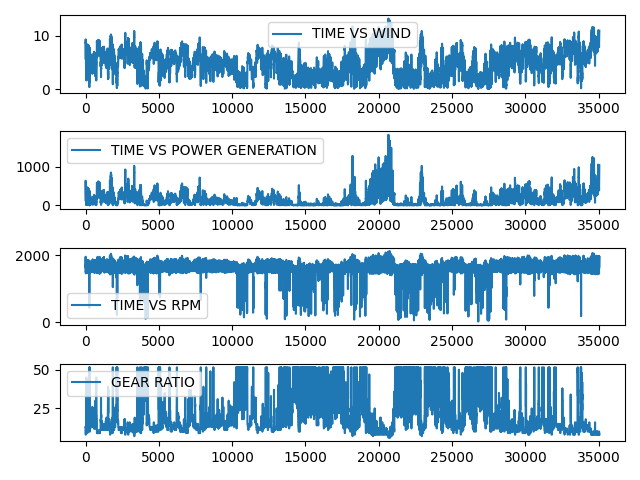
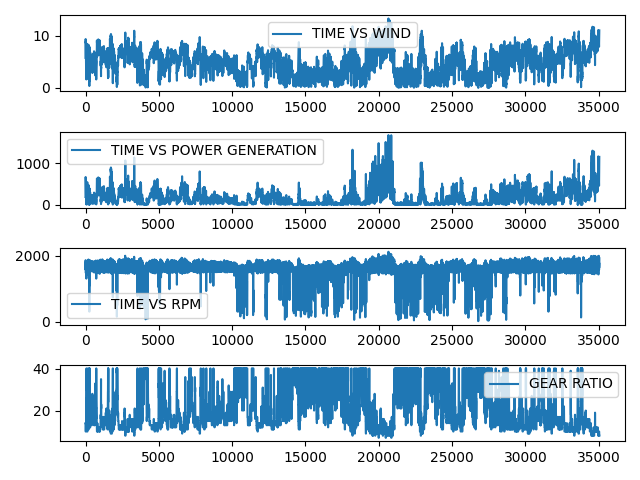
final working build

diff --git a/vawtsystem.py b/vawtsystem.py
@@ -1,36 +1,54 @@
 import matplotlib.pyplot as plt
 import numpy as np
 import csv
+import math
 
 BETZ = 0.35
 GENEFF = 0.85
 CVTEFF = 0.85
-IDEALTSR = 2 # small widnd turbines
-# tsr = w*R / V
+TSR = 2 # small widnd turbines
+RATIO = 1.75 # see sources
 
-# simulate wind fluctuations
-# this assumes a minute 
-def createWind(wind, n):
-  windList = []
-  windList.append(
-    wind +
-    2 * np.pi * (2 * np.pi * 0 / 120) +
-    1 * np.pi * (2 * np.pi * 0 / 30) +
-    0.5 * np.random.randn(n)
-  )
+def w2area(wind, power, DENSITY):
+  print('AT WIND SPEED: ' + str(wind) + 'M/S')
+  area = (2*power / (wind**3 * BETZ * DENSITY))
+  diameter = math.sqrt(area / (RATIO))
+  height = diameter * RATIO
 
-  return windList[0]
+  # given power
+  # mechanical power btw
+  power = 0.5 * DENSITY * BETZ * wind**3 * (diameter * height)
 
-# we use a tsr based approach
-# what we do is calculate tsr, make ideal gear ratio to match from tsr 
-# then "tilt" the shift to know how much to shift for that
-# also place a treshhold so we dont shift all the time
-# calculate current gear ratio, return ideal and power output from electricity
+
+  print('AREA: ' + str(area))
+  print('DIAMETER: ' + str(diameter))
+  print('HEIGHT: ' + str(height))
+  return diameter, height
+
+def gearratio(WINDSPEED, LOWEST, HIGHEST, DIAM, GENERATORRATEDSPEED):
+  print(f"DIAGNOSTICS AT AVERAGE WINDSPEED {WINDSPEED}M/S")
+  TRADIUS = DIAM / 2
+
+  print('------------------------------------------')
+  print(f"LOWEST WIND SPEED: {LOWEST} \nHIGHEST: {HIGHEST}")
+
+  # conv to rads 
+  RPMRAD = (GENERATORRATEDSPEED * 2 * math.pi) / 60
+  LOWESTROTATIONALSPEED = (TSR * LOWEST) / TRADIUS
+  HIGHESTROTATIONALSPEED = (TSR * HIGHEST) / TRADIUS
+  RATEDROTATIONALSPEED = (TSR * WINDSPEED) / TRADIUS
+  print(RATEDROTATIONALSPEED)
+
+  # formula for gear ratio = GENSPEE / ROTATIONAL SPEED OF TURBINE
+  HIGHESTGR = RPMRAD / HIGHESTROTATIONALSPEED
+  LOWESTGR = RPMRAD / LOWESTROTATIONALSPEED
+  AVERAGEGR = RPMRAD / RATEDROTATIONALSPEED
+  print('------------------------------------------')
+  print(f"UPPER BOUND: {HIGHESTGR} \nLOWEST: {LOWESTGR} \nAVERAGE: {AVERAGEGR}")
+  
+  return HIGHESTGR, LOWESTGR, AVERAGEGR
+  
 def shifterDriver(power, rpm, speed, dimensions, config, wv, gr):
-  # input radius of torroidal cvt discs
-  # rinput = dimensions.input
-  # routput = dimensions.output
-  # torus shifter, it adjusts angle to change radius
   theta = 0
 
   # upper and lower gear ratios, given from vawtgearratio
@@ -85,11 +103,8 @@ def shifterDriver(power, rpm, speed, dimensions, config, wv, gr):
 
     # print(f'SHIFTED TO {gearRatio}, expected rpm {gearRatio * rpm}, ideal {idealgr} expected ideal {idealgr * rpm}')
 
-  # given this, i want to recalculate power at that moment
-  # torque of turbine at that moment
   torque = power / speed
 
-  # generator speed
   genspeed = speed / gearRatio
   gentorque = torque * gearRatio * GENEFF
 
@@ -110,7 +125,6 @@ def simulate(windList, dimensions, config):
   # - rpm at that moment
   # - torque 
 
-  angularaccel = 0
   angularvelo = 0
   netpowarr = []
   epowerarr = []
@@ -118,7 +132,6 @@ def simulate(windList, dimensions, config):
   ratioarr = []
   rpmarr = []
   kwharr = []
-  srgpowarr = []
 
   kwh = 0
   opower = 0 
@@ -127,17 +140,13 @@ def simulate(windList, dimensions, config):
     # power is power from wind - power from inertia
     if (windList[i] == 0):
       windList[i] = 0.1
-    # inertia is defined by moment of inertia * angular accel * angular velocity
     omega = angularvelo # past angular velo
-    rpm = (IDEALTSR * windList[i] * 60) / (2 * np.pi * dimensions['diam'] /2)
+    rpm = (TSR * windList[i] * 60) / (2 * np.pi * dimensions['diam'] /2)
     # rpm = 100
     torque = 0.5 * config['density'] * (dimensions['diam'] * dimensions['hei']) * windList[i]**3 
     power = torque * BETZ
     # delta angular velo / delta time
     angularvelo = rpm / 60 * 2 * np.pi
-
-    # DELTA V / DELTA S
-    angularaccel = (angularvelo - omega) / 900 # 15 MINUTE CONFIGURATION
 
     epower = shifterDriver(power , rpm, angularvelo, dimensions, config, windList[i], ratio)
 
@@ -164,8 +173,8 @@ def simulate(windList, dimensions, config):
     'genrpm': rpmarr,
     'kwh': kwharr
   }
-  visualize(windList, metrics)
 
+  visualize(windList, metrics)
 
 def visualize(wind, metrics):
   # time series
@@ -196,54 +205,56 @@ def visualize(wind, metrics):
   plt.tight_layout()
   plt.show()
 
-def main():
-  # only if no provided wind data
-  print('>> WINDSPEED ----------------')
-  filename = input('FILENAME: ')
-  print('READING FILE FOR DATA')
 
-  data = [] # get file 
-  # this is for nrel
-  try:
-    with open(filename, mode='r', newline='') as file:
-      reader = csv.reader(file)
-      for _ in range(2):
-        next(reader)
-      
-      for row in reader:
-        data.append(float(row[5]))
-    
-    print('READ FILE')
 
-  except: 
-    data = 0
-    if (data is None or data == 0):
-      print('FILE UNABLE TO BE READ, DEFAULTING.')
-      w = int(input('WINDSPEED: '))
-      d = int(input('NUMBER OF DATAPOINTS: '))
-      data = createWind(w, d)
+filename = input('FILENAME: ')
+print('READING FILE FOR DATA')
 
-  print('>> DIMENSIONS ---------------')
-  diameter = float(input('TURBINE DIAMETER: '))
-  height = float(input('TURBINE HEIGHT: '))
-  dimen = {
-    'diam': diameter, 
-    'hei': height,
-  }
+data = [] # get file 
+wind = 0
+high = low = 0
+# this is for nrel
+with open(filename, mode='r', newline='') as file:
+  reader = csv.reader(file)
+  for _ in range(2):
+    next(reader)
+  
+  for row in reader:
+    data.append(float(row[5]))
 
-  print('>> CONFIG -------------------')
-  den = float(input('AIR DENSITY: '))
-  genspeed = int(input('GENERATOR RATED RPM: '))
-  lower = float(input('LOWER GEAR RATIO: '))
-  upper = float(input('UPPER GEAR RATIO: '))
+  high = max(data)
+  low = np.percentile(data, 5)
+  wind = (low + high) / 2
+  wind = sum(data) / len(data)
+  # cut in
+  if low < 2:
+    low = 2
+  
+  print('READ FILE')
 
-  conf = {
-    'density': den,
-    'genv': genspeed,
-    'lowerbound': lower,
-    'upperbound': upper,
-  }
-  simulate(data, dimen, conf)
+DENSITY = float(input('WIND DENSITY: '))
+POWER = float(input('DESIRED POWER: '))
+GENV = int(input('GENERATOR SPEED: '))
+diam, hei = w2area(wind, POWER, DENSITY)
 
-if __name__ == '__main__':
-  main()
+upper, lower, ave = gearratio(wind, low, high, diam, GENV)
+
+dimen = {
+  'diam': diam, 
+  'hei': hei,
+}
+
+conf = {
+  'density': DENSITY,
+  'genv': GENV,
+  'lowerbound': lower,
+  'upperbound': upper,
+}
+
+simulate(data, dimen, conf)
+
+print('SRG RESULTS ----------------------')
+
+conf['lowerbound'] = ave
+conf['upperbound'] = ave
+simulate(data, dimen, conf)

diff --git a/vawtgearratio.py b/vawtgearratio.py
@@ -1,20 +1,16 @@
 import math
+import csv
+import numpy as np
 
 GENERATOREFF = 0.85 # find source for this number
 GENERATORRATEDSPEED = 1600 # IDEAL RPM
 TSR = 2
 BETZ = 0.35
-DENSITY = 1.225 # METER
-TRADIUS = 1.64 # METER
-HEIGHT = 5.17 # METER
+DENSITY = 1 
 
-def gearratio(WINDSPEED):
+def gearratio(WINDSPEED, LOWEST, HIGHEST, DIAM, HEIGHT):
   print(f"DIAGNOSTICS AT AVERAGE WINDSPEED {WINDSPEED}M/S")
-  if WINDSPEED - 2 < 1:
-    LOWEST = 1
-  else: 
-    LOWEST = WINDSPEED - 2
-  HIGHEST = WINDSPEED + 20 # arbitrary values but for goodness sake
+  TRADIUS = DIAM / 2
 
   print('------------------------------------------')
   print(f"LOWEST WIND SPEED: {LOWEST} \nHIGHEST: {HIGHEST}")
@@ -46,9 +42,41 @@ def gearratio(WINDSPEED):
   
 
 
+filename = input('FILENAME: ')
+print('READING FILE FOR DATA')
 
-wind = float(input("AVERAGE WINDSPEED OF AREA: "))
-TRADIUS = float(input('DIAMETER: '))
+data = [] # get file 
+wind = 0
+high = low = 0
+# this is for nrel
+try:
+  with open(filename, mode='r', newline='') as file:
+    reader = csv.reader(file)
+    for _ in range(2):
+      next(reader)
+    
+    for row in reader:
+      data.append(float(row[5]))
+
+    high = max(data)
+    low = np.percentile(data, 5)
+    wind = (low + high) / 2
+    wind = sum(data) / len(data)
+    # cut in
+    if low < 2:
+      low = 2
+  
+  print('READ FILE')
+
+except: 
+  data = 0
+  if (data is None or data == 0):
+    print('FILE UNABLE TO BE READ, DEFAULTING.')
+    wind  = int(input('WINDSPEED: '))
+    low = int(input('WINDSPEED: '))
+    high = int(input('WINDSPEED: '))
+
+DIAM = float(input('DIAMETER: '))
 HEIGHT = float(input('HEIGHT: '))
 GENSPEED = int(input('GENSPEED: '))
-gearratio(wind)
+gearratio(wind, low, high, DIAM, HEIGHT)

diff --git a/vawtdimension.py b/vawtdimension.py
@@ -1,7 +1,7 @@
 import matplotlib
 import math
 
-DENSITY = 1.225
+DENSITY = 1
 BETZ = 0.35 # rough average of vawt limit
 TSR = 2 # small vawt scale for darries
 SOLIDITY = 0.2 # optimal for small vawts with small windspeeds
